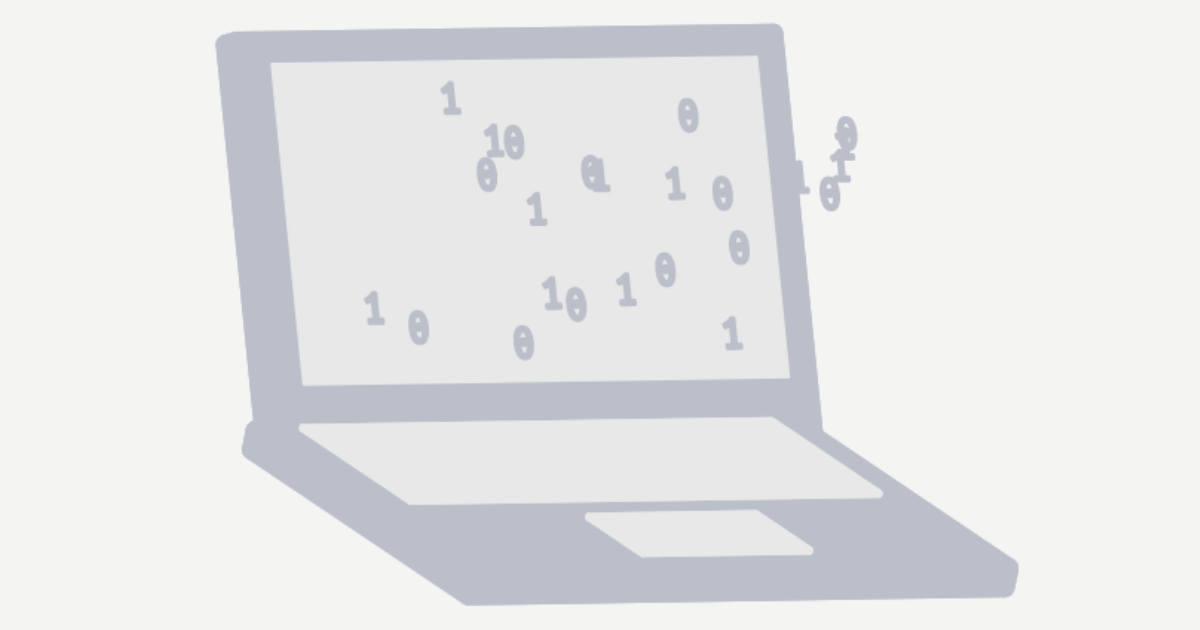
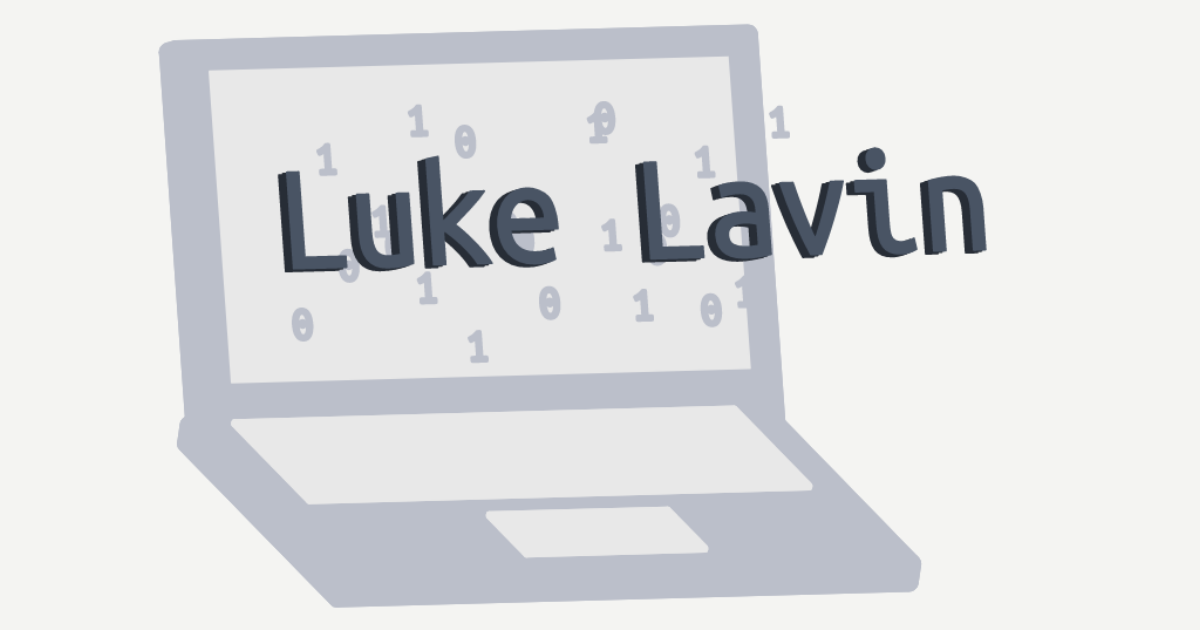
Another new card and tweaked rotation speed

Changed region(s): [[0.1233, 0.0302, 0.8633, 0.9651], [0.185, 0.0302, 0.5242, 0.0603]]

diff --git a/index.js b/index.js
@@ -177,7 +177,7 @@ text.copy({
 })
 
 let ticker = 0;
-let cycleCount = 300;
+let cycleCount = window.innerWidth > 1000 ? 600 : 300;
 
 function animate() {
   if (isSpinning) {
